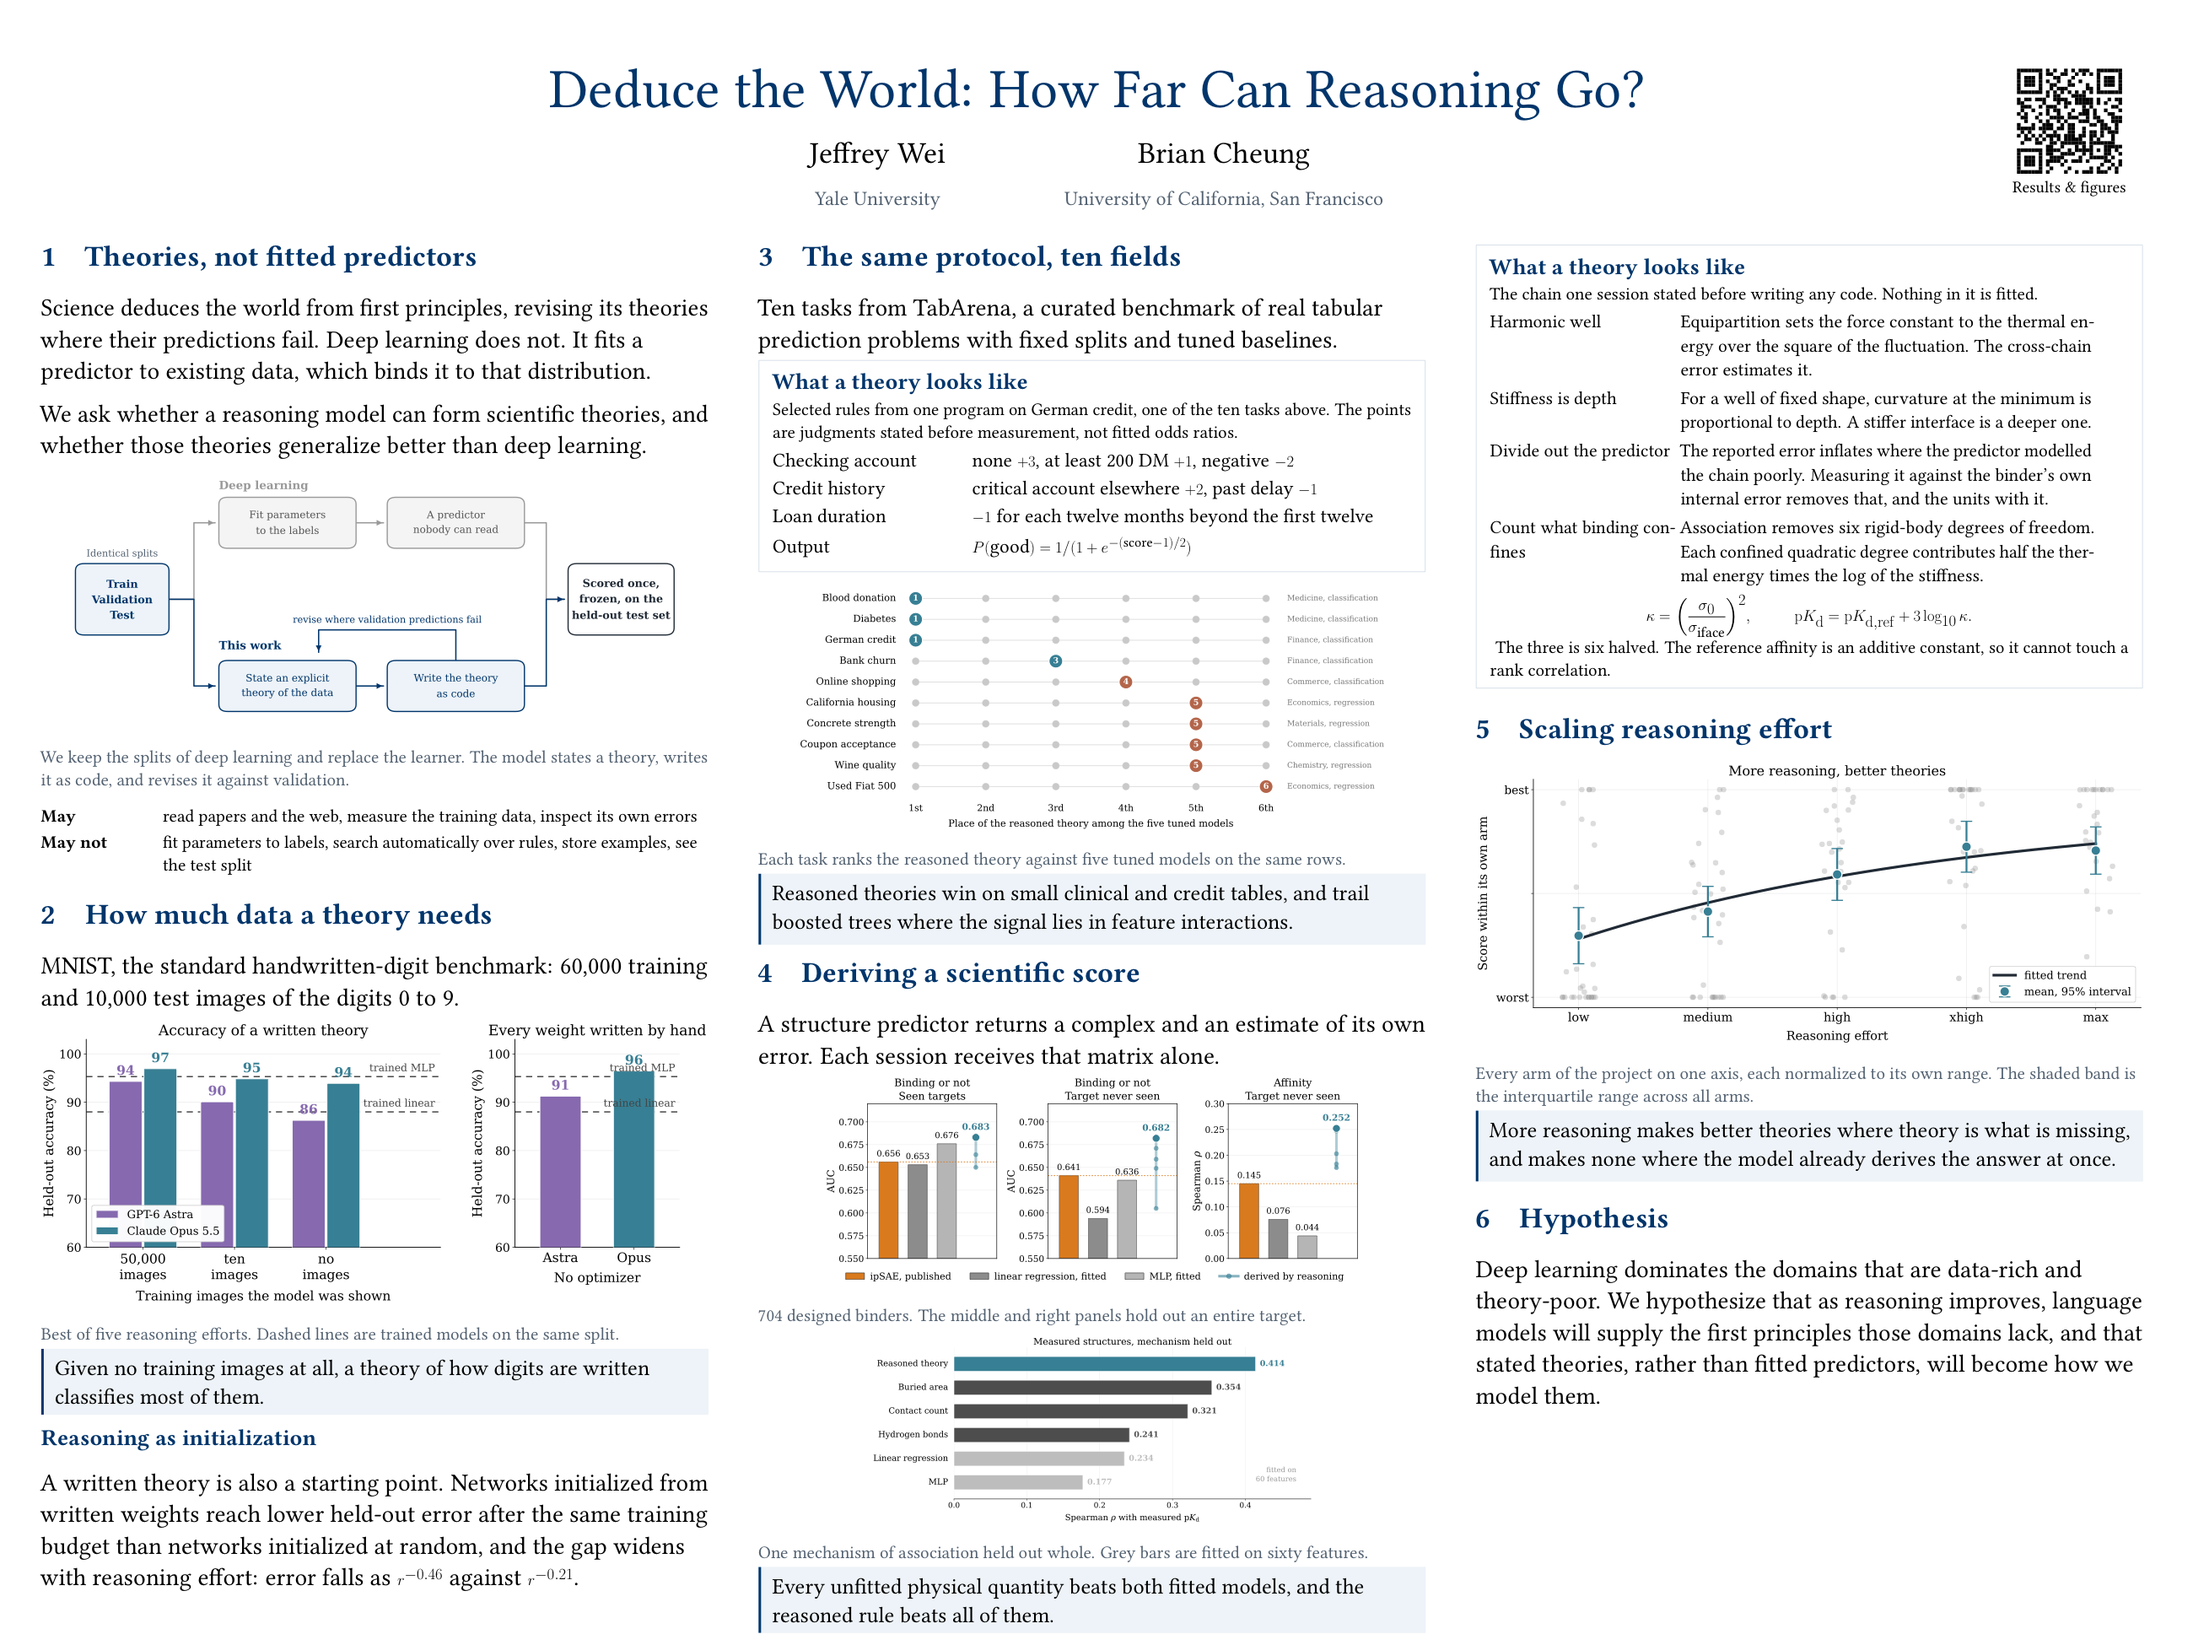
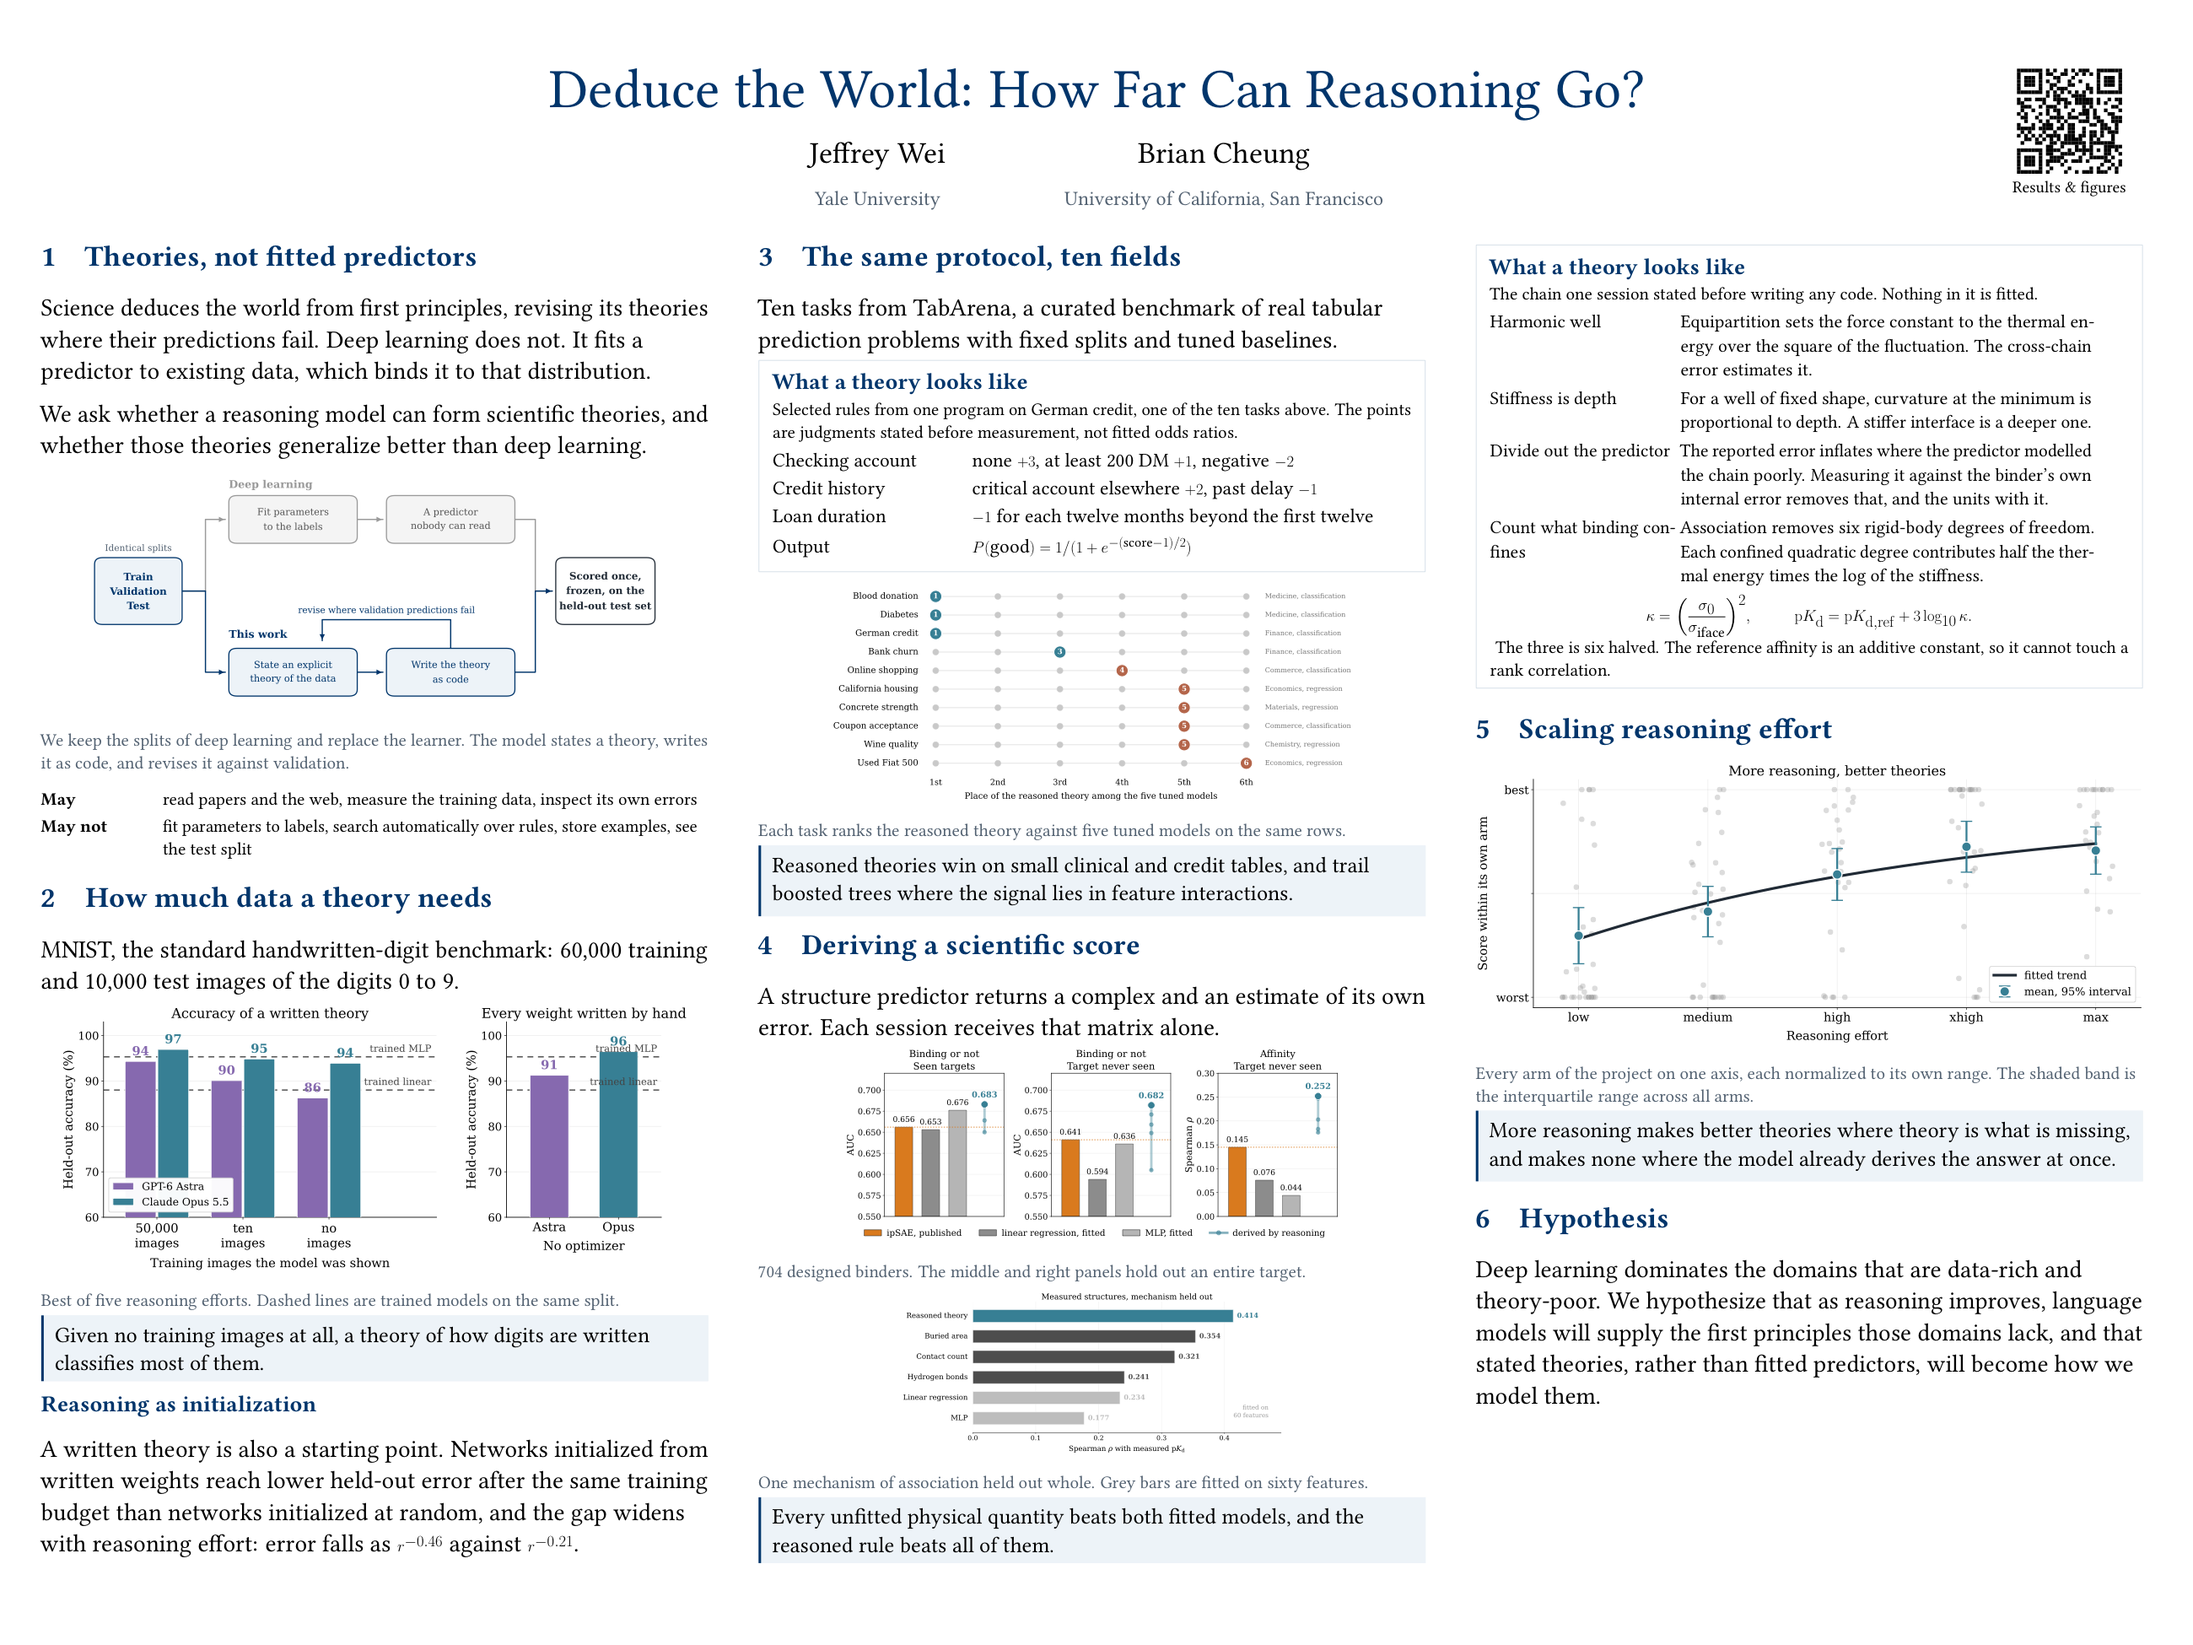
Give the poster a bottom margin

diff --git a/poster/poster.tex b/poster/poster.tex
@@ -59,7 +59,7 @@ Science deduces the world from first principles, revising its theories where the
 
 We ask whether a reasoning model can form scientific theories, and whether those theories generalize better than deep learning.
 
-{\centering\includegraphics[width=0.94\linewidth]{poster_framework}\par}
+{\centering\includegraphics[width=0.88\linewidth]{poster_framework}\par}
 \figcaption{We keep the splits of deep learning and replace the learner. The model states a theory, writes it as code, and revises it against validation.}
 
 \vspace{0.10in}
@@ -74,7 +74,7 @@ We ask whether a reasoning model can form scientific theories, and whether those
 
 MNIST, the standard handwritten-digit benchmark: 60,000 training and 10,000 test images of the digits 0 to 9.
 
-{\centering\includegraphics[width=\linewidth]{poster_digits}\par}
+{\centering\includegraphics[width=0.94\linewidth]{poster_digits}\par}
 \figcaption{Best of five reasoning efforts. Dashed lines are trained models on the same split.}
 
 \begin{finding}
@@ -106,7 +106,7 @@ Output & $P(\text{good}) = 1/(1+e^{-(\text{score}-1)/2})$\\
 \end{tabular}\par}
 \end{derivation}
 
-{\centering\includegraphics[width=0.88\linewidth]{poster_tabular}\par}
+{\centering\includegraphics[width=0.78\linewidth]{poster_tabular}\par}
 \figcaption{Each task ranks the reasoned theory against five tuned models on the same rows.}
 
 \begin{finding}
@@ -118,10 +118,10 @@ Reasoned theories win on small clinical and credit tables, and trail boosted tre
 
 A structure predictor returns a complex and an estimate of its own error. Each session receives that matrix alone.
 
-{\centering\includegraphics[width=0.80\linewidth]{poster_ipsae}\par}
+{\centering\includegraphics[width=0.74\linewidth]{poster_ipsae}\par}
 \figcaption{704 designed binders. The middle and right panels hold out an entire target.}
 
-{\centering\includegraphics[width=0.66\linewidth]{poster_skempi_floors}\par}
+{\centering\includegraphics[width=0.57\linewidth]{poster_skempi_floors}\par}
 \figcaption{One mechanism of association held out whole. Grey bars are fitted on sixty features.}
 
 \begin{finding}
